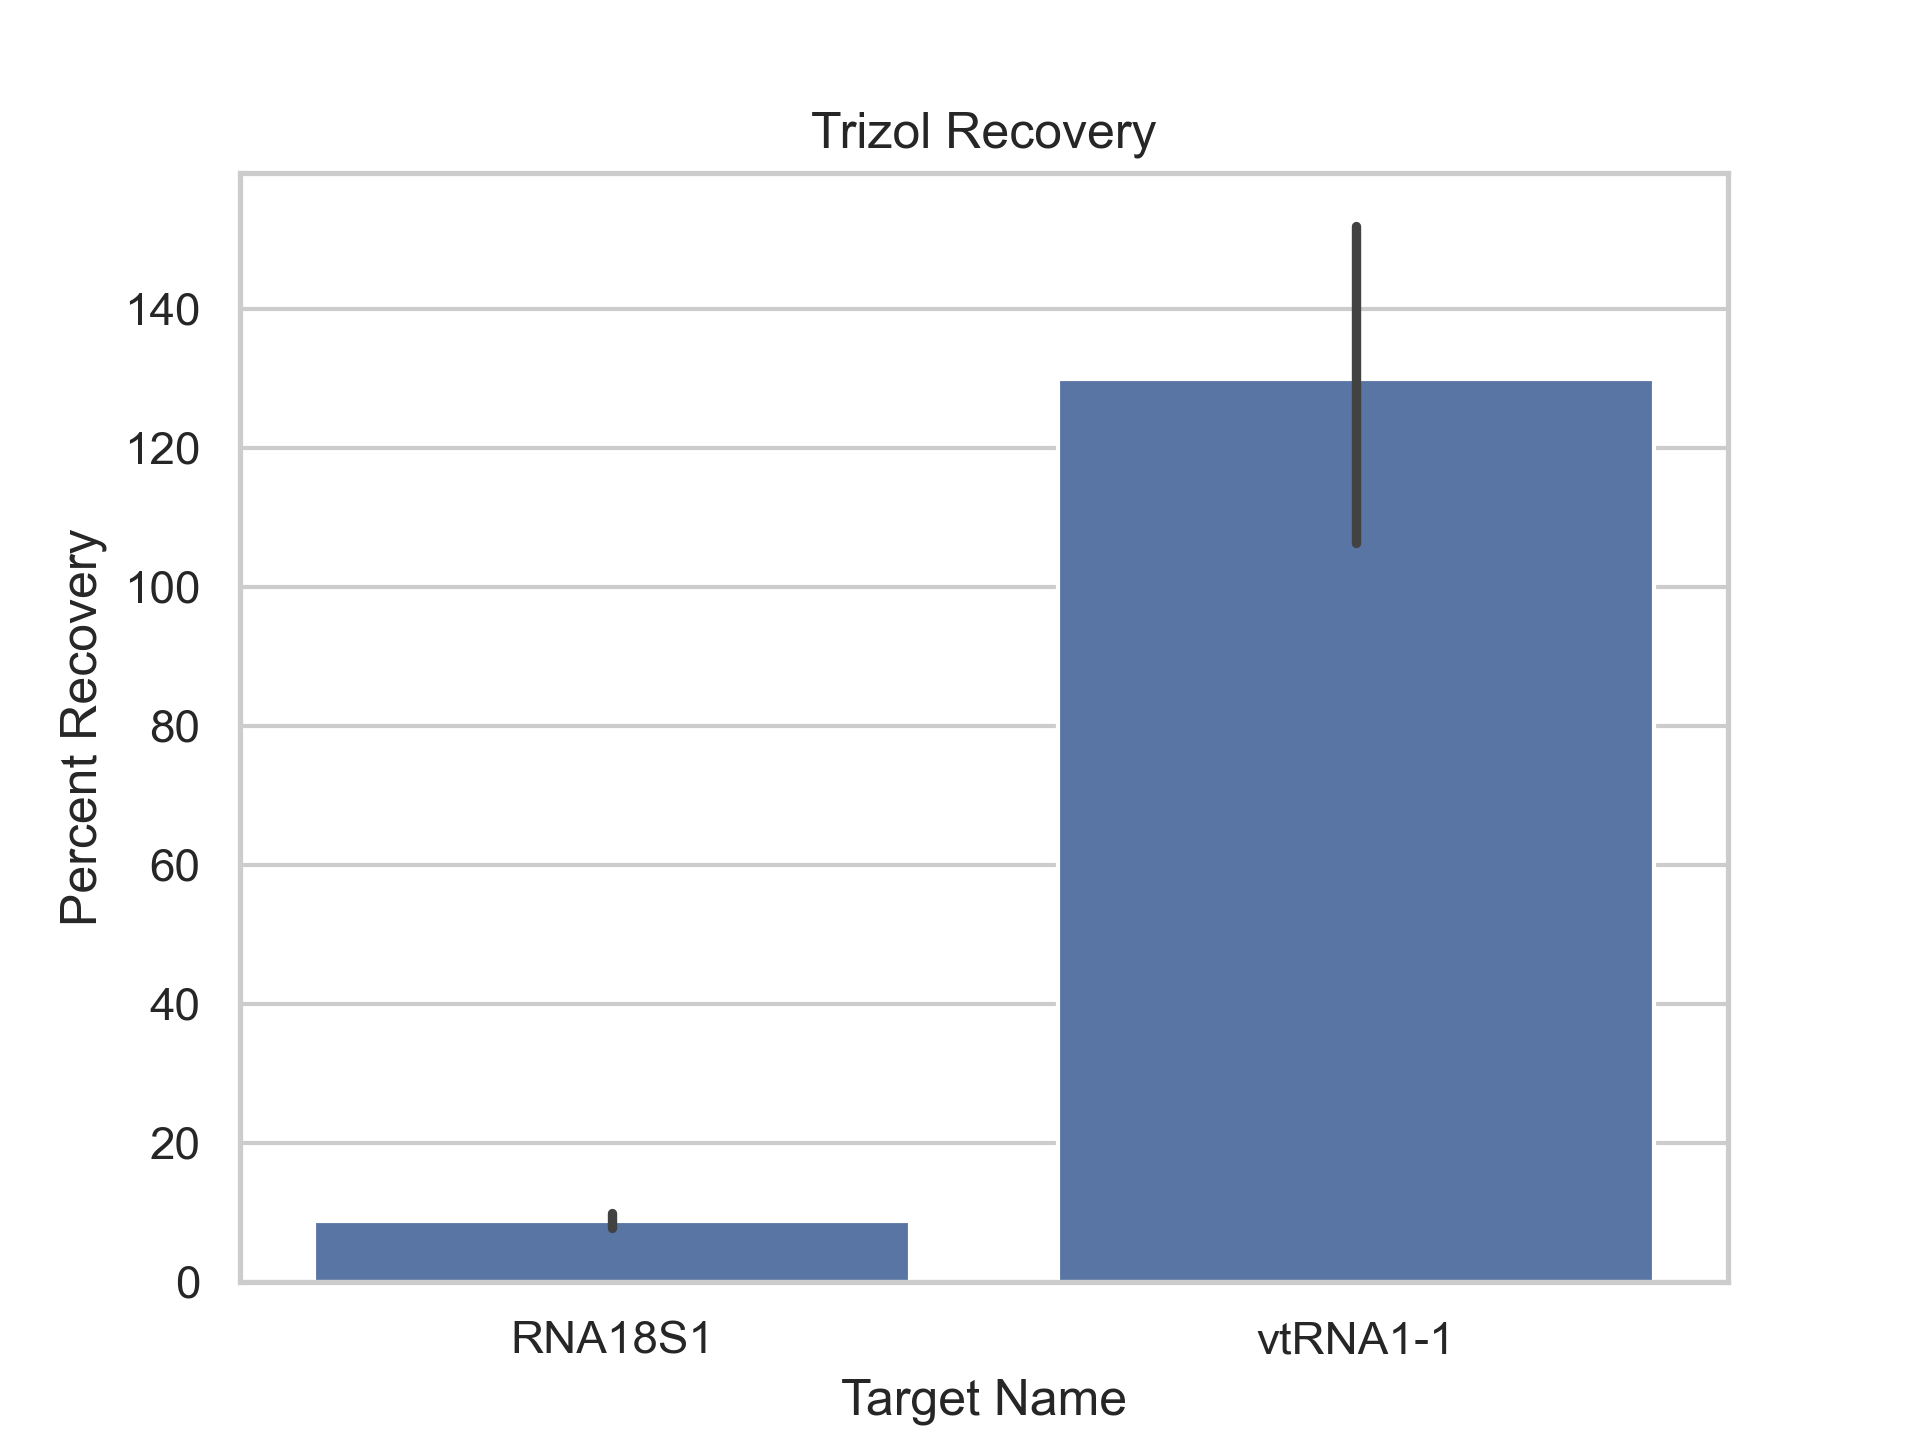
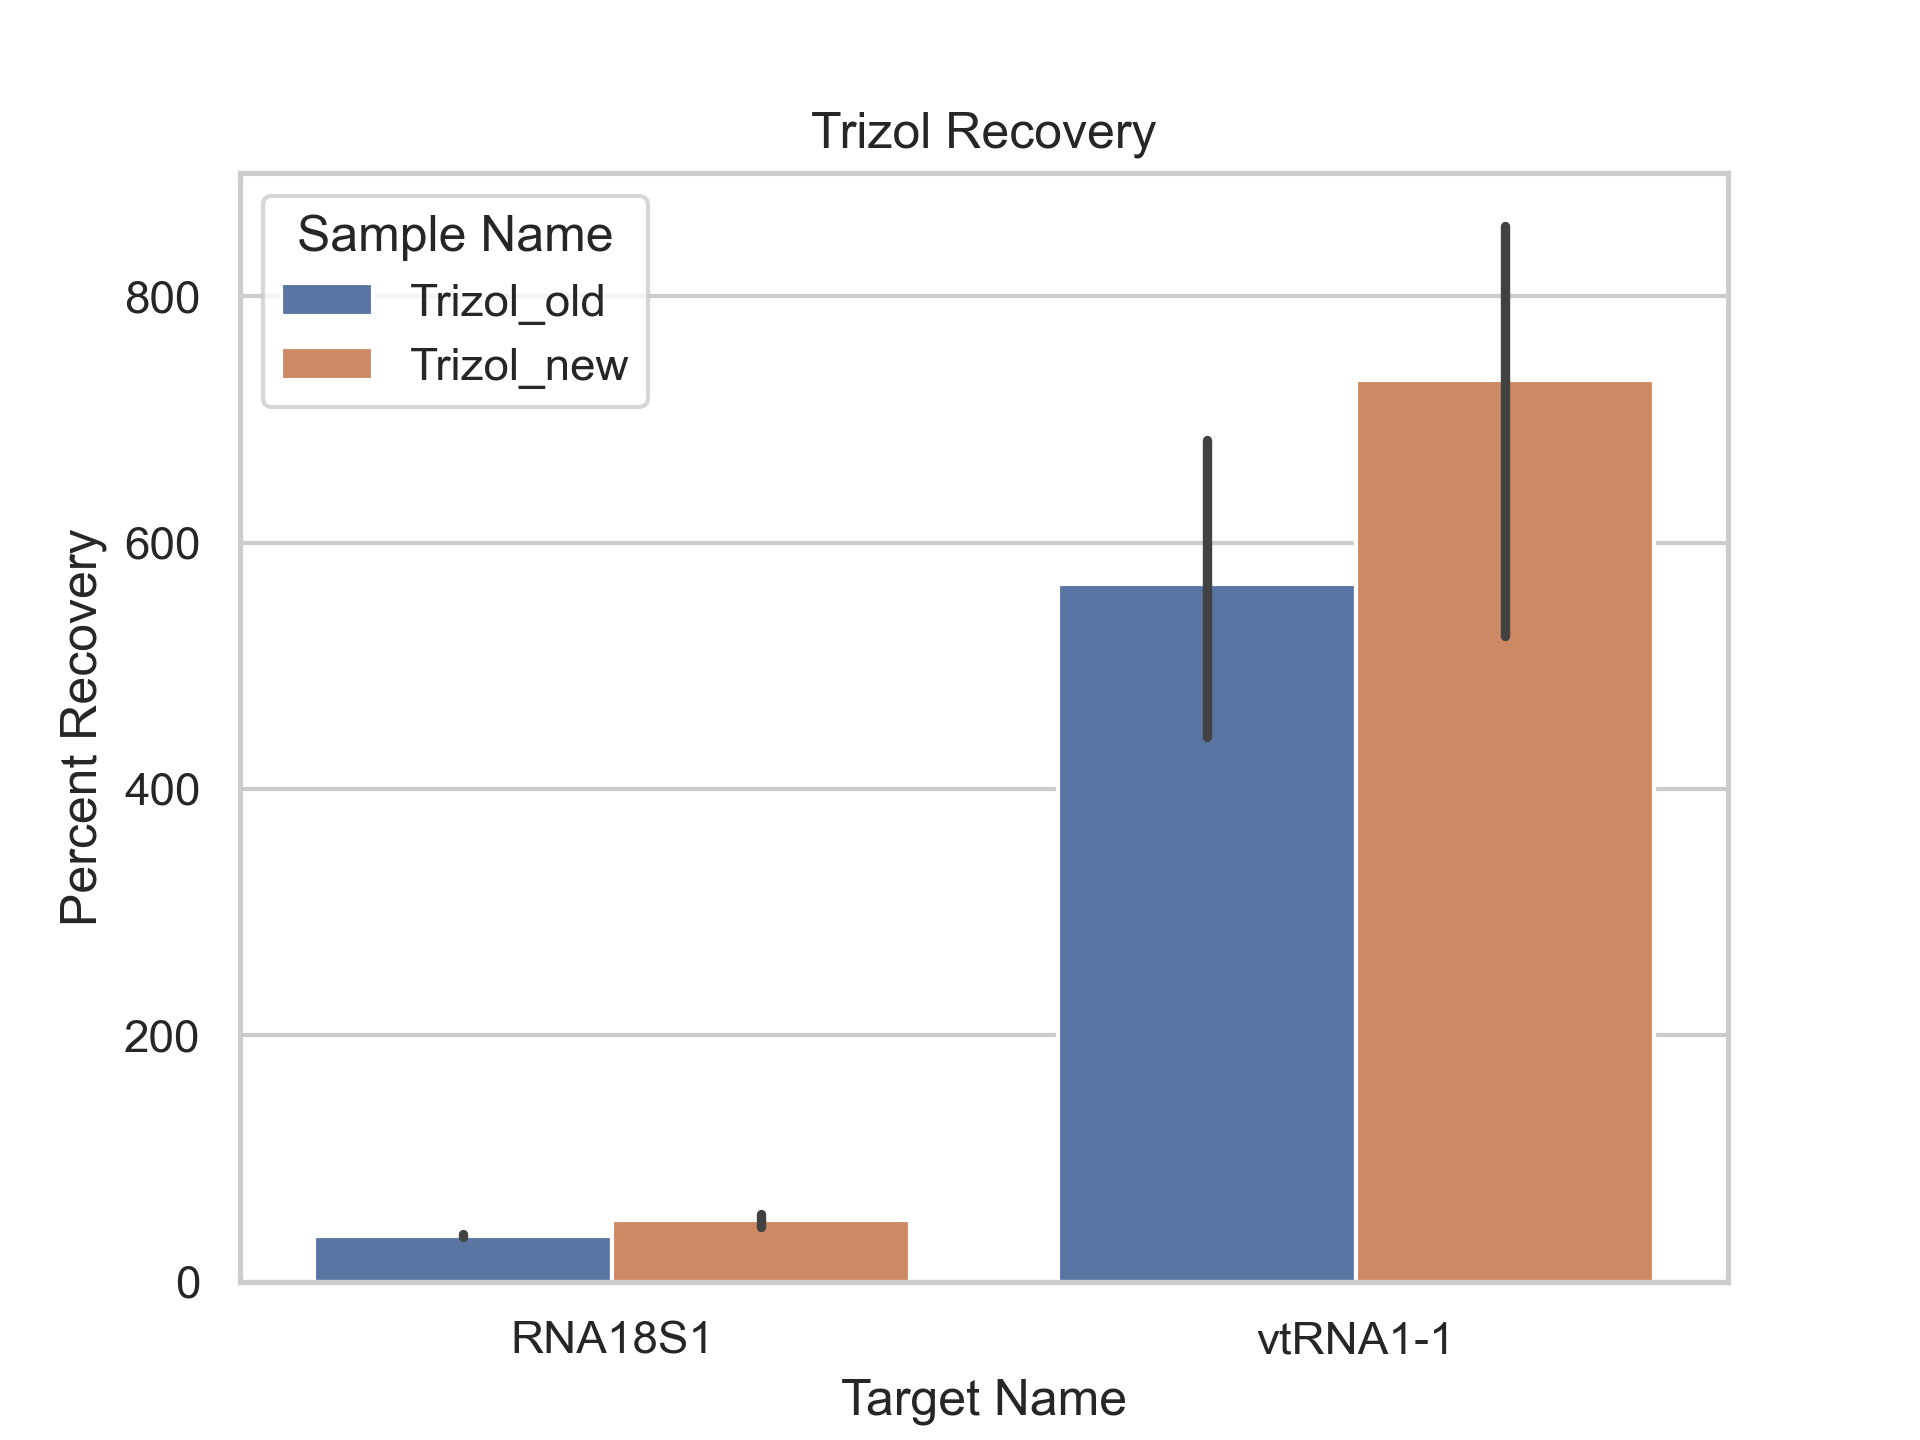
Separate old and new values by hue on graph

diff --git a/TN037/TN037.5.py b/TN037/TN037.5.py
@@ -61,9 +61,6 @@ def calculate_percent_recovery(input_df, enrich_df):
     percent_recovery["Target Name"] = enrich_df["Target Name"]
     percent_recovery["CT.difference"] = input_df["CT"].sub(enrich_df["CT"])
     percent_recovery["percent_recovery"] = 100 * 2 ** percent_recovery["CT.difference"]
-    percent_recovery["percent_recovery_corrected"] = (
-        percent_recovery["percent_recovery"] / 5
-    )
     return percent_recovery
 
 
@@ -84,7 +81,7 @@ trizol = pd.concat([recover_trizol_old, recover_trizol_new])
 def plot_percent_recovery(df, title):
     sns.set_theme(style="whitegrid")
     sns.set_palette("deep", 8)
-    ax = sns.barplot(x="Target Name", y="percent_recovery_corrected", data=df)
+    ax = sns.barplot(x="Target Name", y="percent_recovery", data=df, hue = "Sample Name")
     ax.set_title(title)
     # ax.set_ylim(0, 100)
     ax.set_xlabel("Target Name")
